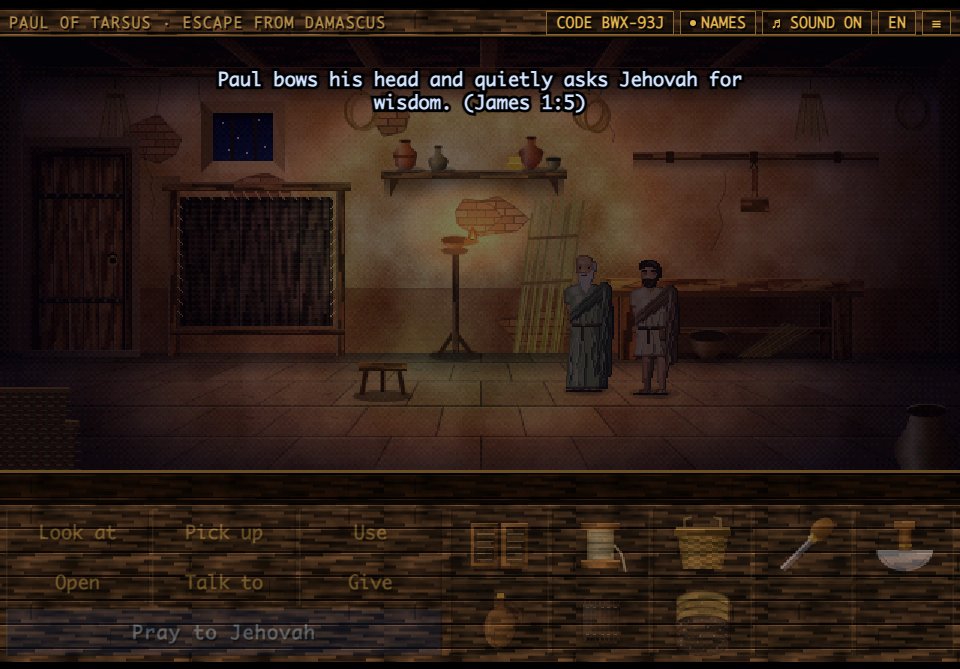
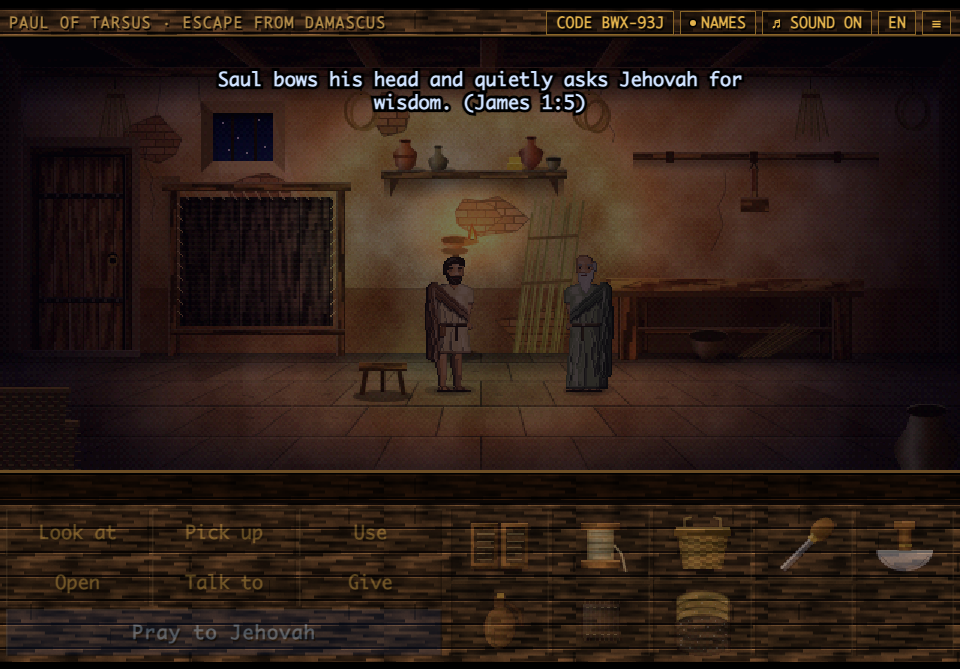
Saul prays as Saul until Acts 13:9 (fixes #63)
The prayer filled in Paul's name from P.name, which is always Paul, so in
the prologue and Chapters One to Four it said "Paul bows his head" while
the narration still calls him Saul. It now uses storyName(), which reads
P.called (a pair played as one, Aquila and Priscilla, keeps the name of
the pair). The swap button had the same fault in Chapters Three and Four
and uses it too.

- setChapter clears P.called, so no chapter inherits the name the chapter
  played before left there; Chapters One and Two set Saul in their setup.
- German: "Saul" -> "Saulus" for Chapters One and Two.
- Playtest: every prayer Paul says is checked against the narration's name
  (Saul before Acts 13:9, Paul from there on), in each language; inline
  checks in Chapter One and at Paphos; the swap button names Saul in
  Chapter Three. The Chapter One check fails on the old code.
- docs: how-to-play and development notes; pray.png retaken (Saul).

Changed region(s): [[0.4375, 0.3886, 0.5, 0.5979], [0.6562, 0.3886, 0.7188, 0.5979], [0.2188, 0.0897, 0.25, 0.1495]]

diff --git a/tools/playtest-harness.html b/tools/playtest-harness.html
@@ -45,6 +45,11 @@
    return bx.length>0&&!bad.size};
  const fitVerbs=()=>{for(const b of document.querySelectorAll("#verbs button"))if(getComputedStyle(b).display!=="none")fits(b,"verb",1)};
  const heard=[];new MutationObserver(m=>m.forEach(r=>r.addedNodes.forEach(n=>heard.push(n.textContent)))).observe($('#speech'),{childList:true});
+ /* Paul's name in the prayer (issue #63, CONTRIBUTING section 2): the narration calls him Saul until Acts 13:9 and Paul from there on, and the prayer
+    does too. Every line of prayer that Paul says in the playthrough is noted with the chapter and whether he has been heard by the proconsul yet
+    (Chapter Four, F.heard), and the end of the run checks them all, in each language. */
+ const prayLine=(h,nm)=>PRAYERS.some(l=>h===T(l,{name:T(nm)})),prayName=[],nameNow=()=>G.ch<4||G.ch===4&&!F.heard?'Saul':'Paul';
+ new MutationObserver(m=>m.forEach(r=>r.addedNodes.forEach(n=>{if(PC()===P)for(const nm of['Saul','Paul'])if(prayLine(n.textContent,nm))prayName.push([G.ch,nameNow(),nm])}))).observe($('#speech'),{childList:true});
  const choose=async i=>{const b=document.querySelectorAll('#choices button');b[i<0?b.length+i:i].click();await idle()};
  /* Pray to Jehovah is the hint system, and it never changes the game's state (CONTRIBUTING section 2). Every prayer of the playthrough is
     held to that: the flags, what everyone carries and the room are noted as a prayer begins, and compared at the check that follows it. */
@@ -2563,7 +2568,7 @@
   await sweep(ACT.eliab);
   heard.length=0;await act('pickup','shelf');ok(heard.includes(T('I have no use for dye tonight. Goat-hair cloth comes dark enough from the goat.'))&&G.room==='workshop','the dye shelf: goat hair comes dark enough from the goat');
   halt('pray',()=>{pray()});
-  pray();await idle();ok(G.prays===1&&!G.busy,'prayer returns control, hint='+hint()[0]);
+  heard.length=0;pray();await idle();ok(G.prays===1&&!G.busy&&heard.some(h=>prayLine(h,'Saul'))&&!heard.some(h=>prayLine(h,'Paul')),'prayer returns control, and Saul prays as Saul, as the narration calls him; hint='+hint()[0]);
   await act(null,'door to the street');ok(G.room==='street','in street');
   await act(null,'alley to the wall quarter');ok(G.room==='street'&&P.x<400,'guard turns Paul back');
   halt('guard',()=>{ACT.guard.dir=1;say(ACT.guard,'Halt! The wall quarter is closed tonight. Orders of the governor.')});
@@ -2695,7 +2700,7 @@
   ok($('#verbs').classList.contains('party')&&$('#swap').textContent.includes(T('Barnabas'))&&getComputedStyle($('#swap')).display!=='none','a party: the panel offers to switch to Barnabas');fitVerbs();
   heard.length=0;await useOn('awl','tent');ok(!F.seam&&!F.held&&heard.includes(T('Then show me where to stand, Saul. I am a Levite, not a tentmaker.')),'one man cannot sew the seam straight');
   pray();await idle();ok(hint()[0]==='hold3','the hint points to Barnabas');
-  key('c');await idle();ok(PC()===BN&&srt()==='staff'&&$('#swap').textContent.includes(T('Paul'))&&$('#status').textContent===T('Walk to'),'C switches to Barnabas, with his own inventory');
+  key('c');await idle();ok(PC()===BN&&srt()==='staff'&&$('#swap').textContent.includes(T('Saul'))&&!$('#swap').textContent.includes(T('Paul'))&&$('#status').textContent===T('Walk to'),'C switches to Barnabas, with his own inventory');
   heard.length=0;await act('look','workbench');ok(heard.includes(T('Scarred by years of cutting.')),'Barnabas looks at things in his own words');
   heard.length=0;await act('use','leather hide');ok(heard.includes(T("That is Saul's trade, not mine."))&&!F.gotLoops,'and leaves the crafts to Saul');
   pray();await idle();ok(hint()[0]==='hold3b'&&ACT.barnabas.bow===false,'Barnabas prays, and gets his own hint');
@@ -2887,14 +2892,14 @@
   halt('paphos',()=>{place(P,'paphos',286,122,1);place(BN,'paphos',258,126,1);G.cam=80;say(ACT.sergius,'It is a fair question. What is Cyprus to you two, that you walk the length of it?')});
   await sweep(ACT.sergius,ACT.elymas,ACT.mark);
   await actor(null,ACT.sergius);ok(!F.ob1&&!G.busy,'Paul is a stranger on Cyprus, and says so');
-  pray();await idle();ok(hint()[0]==='isle4','the hint points to Barnabas');
+  heard.length=0;pray();await idle();ok(hint()[0]==='isle4'&&heard.some(h=>prayLine(h,'Paul'))&&!heard.some(h=>prayLine(h,'Saul')),'the hint points to Barnabas, and from Acts 13:9 on Paul prays as Paul');
   await give('awl',ACT.sergius);ok(!F.ob2&&has('awl'),'the awl is no answer to the first question');
   key('c');await idle();await actor(null,ACT.sergius);ok(F.ob1&&!F.ob2&&!G.busy,'Barnabas answers: he was born on the island');
   const c4c=makeCode();
   await actor(null,ACT.sergius);ok(!F.ob2,'it is Paul whom Elymas has challenged');
   key('c');await idle();await actor(null,ACT.sergius);ok(!F.ob2&&!$('#choices').classList.contains('on'),'words alone do not answer the charge');
   pray();await idle();ok(hint()[0]==='fee4','the hint points to the awl');
-  await enter(c4c);ok(G.room==='paphos'&&PC()===BN&&F.ob1&&!F.ob2&&P.called==='Paul'&&T(P.hs.name)===T('Paul'),'the Paphos code restores, and his name with it');key('c');await idle();
+  await enter(c4c);ok(G.room==='paphos'&&PC()===BN&&F.ob1&&!F.ob2&&P.called==='Paul'&&T(P.hs.name)===T('Paul')&&$('#swap').textContent.includes(T('Paul')),'the Paphos code restores, and his name with it, on the swap button too');key('c');await idle();
   halt('tools',()=>{place(P,'paphos',308,114,1);place(BN,'paphos',280,124,1);G.cam=80;say(P,'This is my answer, sir. An awl. I am a tentmaker.')});
   halt('blind',()=>{F.ob1=F.ob2=1;ACT.elymas.bow=true;place(ACT.elymas,'paphos',352,128,-1);place(P,'paphos',300,120,1);place(BN,'paphos',272,126,1);G.cam=80;G.busy=true;lock(true);status();
     narr('At once a dense mist and darkness closed over his eyes, and he groped about for somebody who would take his hand and guide him. (Acts 13:11)',{dur:9000})});
@@ -3365,6 +3370,8 @@
   {const real=Object.values(CHAP).filter(c=>c.src);/* the chapters that are level files: not the hub test's own */
     ok(real.length>=9&&real.every(c=>c.ready)&&!taken.length,'ids: all '+real.length+' chapters are loaded, and none took a room, a backdrop or an item from another'+(taken.length?'. TAKEN: '+taken.join(' | '):''))}
   ok(prayers>0&&!prayBad.length,prayers+' prayers, and not one of them changed anything in the game'+(prayBad.length?'. CHANGED before: '+prayBad.slice(0,6).join(' | '):''));
+  {const wrong=prayName.filter(([,w,nm])=>w!==nm);
+   ok(prayName.length>0&&!wrong.length,prayName.length+' prayers of Paul name him as the narration does: Saul before Acts 13:9, Paul from there on'+(wrong.length?'. WRONG: '+wrong.slice(0,6).map(([c,w,nm])=>'chapter '+c+' says '+nm+', wanted '+w).join(' | '):''))}
   /* the narrator's scroll: every line of narration told in the dark was read from it, and it is down again at the end */
   ok(inked>=80&&SHARED.scroll&&SHARED.scroll.state==='down'&&!SHARED.scroll.over.length,inked+' lines of narration were told in the dark, and each was read from the scroll');
   talked();fitVerbs();ok(!tight.size,'no text overflows its box: speech, choices, status line, verbs, top bar'+(tight.size?'. TOO LONG: '+[...tight].slice(0,10).join(' | '):''));

diff --git a/index.html b/index.html
@@ -1132,8 +1132,13 @@ function actor(id,name,color,pitch){return ACT[id]||(ACT[id]={id,name,look:LOOK[
 const P=actor('paul','Paul','#f5e6b8',150);  /* a person's name is shown with T(a.name) */
 /* P is always Paul: the level scripts speak and move him by name. PC() is whoever the player controls. A chapter can declare a party
    of playable characters (party:['paul','barnabas']); each member then has his own inventory (G.invs, of which G.inv is the active
-   one's), stands in his own room, and can be handed things by the others. */
+   one's), stands in his own room, and can be handed things by the others. P.called is the name the story gives him: Saul until
+   Acts 13:9, Paul from there on (CONTRIBUTING section 2). A chapter sets it in its setup, setChapter clears it, and the prayer, the swap
+   button and the hand-over use called before name (a pair played as one keeps its own name: storyName). */
 const PC=()=>G.pc||P;
+/* storyName: the name the story gives a person, which is what the prayer and the swap button show. A pair played as one keeps the name of the pair
+   (Aquila and Priscilla: their called is for the hand-over only). */
+const storyName=a=>a.mate?a.name:a.called||a.name;
 const party=()=>(CHAP[G.ch]&&CHAP[G.ch].party||['paul']).map(id=>ACT[id]);
 const invOf=a=>a===PC()?G.inv:(G.invs[a.id]||(G.invs[a.id]=[]));
 const pick=a=>a[Math.floor(Math.random()*a.length)];
@@ -1269,7 +1274,7 @@ function buildVerbs(){const v=$('#verbs');v.innerHTML='';
   const w=document.createElement('button');w.type='button';w.id='swap';w.onclick=()=>swap();v.appendChild(w);syncVerbs()}
 /* swapBtn: in a chapter with a party, the prayer bar gives up a third of its width to a button naming the character to switch to. */
 function swapBtn(){const b=$('#swap'),ps=party(),on=ps.length>1;$('#verbs').classList.toggle('party',on);if(!on)return;
-  const n=ps[(ps.indexOf(PC())+1)%ps.length];b.textContent='\u21c4 '+T(n.name);b.title=T('Play as {name} (C)',{name:T(n.name)});b.disabled=!n.room}
+  const n=ps[(ps.indexOf(PC())+1)%ps.length];b.textContent='\u21c4 '+T(storyName(n));b.title=T('Play as {name} (C)',{name:T(storyName(n))});b.disabled=!n.room}
 /* swap: hand control to the next member of the party. If he stands in another room, the view goes there. */
 function swap(to){if(G.busy||G.scene||!G.room)return;const ps=party();if(ps.length<2)return;
   const a=to||ps[(ps.indexOf(PC())+1)%ps.length];if(!a||!a.room||a===PC())return;audioInit();
@@ -1556,7 +1561,7 @@ function pray(){if(G.busy||G.scene||!G.room)return;audioInit();
   cut(async()=>{G.prays++;const me=PC(),d=$('#dim'),m=AU.mus,ab=AU.ambG;d.style.opacity=.55;me.bow=true;SFX.pray();
     if(m){m.gain.setTargetAtTime(.12*OPTS.mus,now(),.3);ab.gain.setTargetAtTime(.15*OPTS.fx,now(),.3)}
     await wait(900);
-    {const PR=me.mate?PRAYERS2:PRAYERS;await say(null,T(G.prays===1?PR[0]:pick(PR),{name:T(me.name)}),{dur:4200,color:'#cfe2ff'})}
+    {const PR=me.mate?PRAYERS2:PRAYERS;await say(null,T(G.prays===1?PR[0]:pick(PR),{name:T(storyName(me))}),{dur:4200,color:'#cfe2ff'})}
     await wait(500);me.bow=false;d.style.opacity=0;if(m){m.gain.setTargetAtTime(.55*OPTS.mus,now(),.8);ab.gain.setTargetAtTime(.5*OPTS.fx,now(),.8)}
     await wait(600);
     const[k,ls]=hint(),n=G.hintAt[k]=(G.hintAt[k]||0)+1;
@@ -1799,7 +1804,7 @@ function decode(t){t=(t||'').toUpperCase().replace(/O/g,'0').replace(/[IL]/g,'1'
     const c=Number(x&511n),v=x>>9n^wideMask(c,t.length*5-9);return wideChk(v,CHAP[ch].salt,t.length)===c?{ch,w:v}:null}
   if(t.length!==6)return null;let v=0;for(const x of t){const i=A32.indexOf(x);if(i<0)return null;v=v*32+i}
   const c=v%512,b=Math.floor(v/512)^msk(c);return chk(b,CHAP[ch].salt)!==c||(b>>19&3)>2||b>>21?null:{ch,b}}
-function setChapter(ch){G.ch=ch;for(const k in F)delete F[k];G.pc=P;G.invs={};P.hs=null;
+function setChapter(ch){G.ch=ch;for(const k in F)delete F[k];G.pc=P;G.invs={};P.hs=null;P.called=null;
   LOOK.paul=paulLook(ch);if(LOOK.barnabas)LOOK.barnabas=Object.assign({skin:'#b8844f',tunic:'#b0563a',cloak:'#d8c8a0',belt:'#5a3a20',trim:'#7a3a26',long:1,ph:500},ch>2?{hair:'#58483a',beard:'#58483a',grey:'#8a8076',fullBeard:1}:{hair:'#3a2a1a',beard:'#3a2a1a'});
   SPR.clear();Object.values(ACT).forEach(a=>{if(a!==P)a.room=null;a.bow=a.talk=false;a.walk=null;a.party=0;a.seat=0;a.wear='';a.look=LOOK[a.id]});
   (CHAP[ch].party||[]).forEach(id=>ACT[id].party=1);

diff --git a/levels/chapter1.js b/levels/chapter1.js
@@ -622,7 +622,7 @@ N.hs={name:'Naomi',actor:N,look:'Naomi, our sister. A widow who has opened her h
     {q:'Where are the brothers?',a:()=>say(N,'Eliab and young Jesse are coming by the rooftops. They will be here when the basket is ready.')},
     {q:'Thank you for opening your home.',once:1,a:async()=>{await say(N,'You once came to this city to take us away in bonds. Now you are my brother.');await say(N,'Jehovah does such things.')}},
     {q:'I will make ready.',bye:1}])};
-function setup(){place(E,'workshop',196,118,-1);place(GD,'street',270,118,1);place(Z,'street',328,116,-1);place(N,'house',172,120,-1);
+function setup(){P.called='Saul';place(E,'workshop',196,118,-1);place(GD,'street',270,118,1);place(Z,'street',328,116,-1);place(N,'house',172,120,-1);
   G.inv=['pouch','tablets'];drawInv()}
 /* ============ SCENES: intro, finale, chapter complete ============ */
 const twinkle=(g,t)=>{for(let i=0;i<6;i++)if((Math.floor(t/500)+i)%4===0)R(g,160+i*27,12+(i*17)%40,1,1,'#0a0f2e')};

diff --git a/levels/chapter2.js b/levels/chapter2.js
@@ -257,7 +257,7 @@ Object.assign(COMBO,{
   'sailpatch+thread':()=>say(P,'My thread is for tent seams. A sail under wind would snap it.'),
   'knife+sailpatch':()=>say(P,'It is large enough to cover the tear. I will leave it whole.'),
   'knife+provisions':()=>say(P,'I will break the bread when it is time to eat it.')});
-function setup2(){place(BN,'jerusalem',228,118,-1);place(CE,'upper',168,120,-1);place(JA,'upper',212,123,-1);
+function setup2(){P.called='Saul';place(BN,'jerusalem',228,118,-1);place(CE,'upper',168,120,-1);place(JA,'upper',212,123,-1);
   place(CP,'harbor',262,122,-1);place(FI,'harbor',186,116,-1);place(MT,'harbor',214,130,1);G.inv=['awl','thread','knife','tablets'];drawInv()}
 /* in Jerusalem, while Saul speaks in the synagogues, the two who dispute with him wait in the street */
 const disputers=()=>{place(DS,'jerusalem',252,118,1);place(AR,'jerusalem',226,123,1)};

diff --git a/levels/chapter4.js b/levels/chapter4.js
@@ -658,7 +658,7 @@ async function hearing0(){if(F.heard)return;
   await say(BN,'Barnabas, sir.',{to:SP});
   await say(P,'Saul, of Tarsus. But I was born a Roman, and among the nations I go by my Roman name: Paul.');
   await say(SP,'Paulus? That is my own name. Sergius Paulus.');
-  await say(P,'I have had it as long as I can remember, sir.');F.heard=1;P.called='Paul';
+  await say(P,'I have had it as long as I can remember, sir.');F.heard=1;P.called='Paul';swapBtn();
   await narr('From this point on, the account calls him Paul. (Acts 13:9)',{dur:4200});
   await say(EL,'Proconsul, look at them. Two vagrants from Syria, with the dust of the road to their knees.',{to:SP});
   await say(EL,'Such men sail in, stir up a city, and are gone before the reckoning.');

diff --git a/lang/de/chapter2.js b/lang/de/chapter2.js
@@ -4,6 +4,7 @@
    copied: they are checked against the Neue-Welt-Übersetzung der Heiligen Schrift (Studienausgabe), and names and places follow its
    spelling, without the marks that show stress (CONTRIBUTING sections 1 and 8). */
 TEXTS('de',2,{
+  "Saul":"Saulus",
   "Barnabas":"Barnabas",
   "Cephas":"Kephas",
   "James":"Jakobus",

diff --git a/lang/de/chapter1.js b/lang/de/chapter1.js
@@ -4,6 +4,7 @@
    copied: they are checked against the Neue-Welt-Übersetzung der Heiligen Schrift (Studienausgabe), and names and places follow its
    spelling, without the marks that show stress (CONTRIBUTING sections 1 and 8). */
 TEXTS('de',1,{
+  "Saul":"Saulus",
   "Eliab":"Eliab",
   "Naomi":"Noomi",
   "Jesse":"Isai",

diff --git a/docs/development.md b/docs/development.md
@@ -39,7 +39,7 @@ Inside a level file:
 - **Rooms and dialog** are tables of hotspots with their lines, and short async scripts for the puzzles and cutscenes. A hotspot's default verb (what a plain click does) is worked out by the engine: a door is opened, another exit is walked to, a person is talked to, something picked up with `take(...)` is picked up, and anything else is looked at. A hotspot can name its own with `def:'use'`, or with a getter when it changes with the story.
 - **People** are hotspots with an `actor`. Besides `look` and `talk`, a person has a `give` script for the items that really matter to him (it returns `false` for the rest), a `show` table with his reply to every other item, keyed by item id, and a fallback `show['*']`, all in his own voice. Replies can be a line, a list of lines or a script. Using an item on a person is the same as giving it.
 - **Wax tablets** are data too: `TABLETS` holds the chapter's `people` (name and note), `tasks` and `scripture` (a reference `ref` and a `gist`: the passage as Paul has noted it in his own words, never wording copied from a translation), each with an optional condition `if` on the story, and the chapter definition passes it on as `tablets`. A chapter may add `notes:{title, none, list:[{t, if}]}`, a third list with a heading of its own under the Scriptures, for what Paul writes down as he goes ("Seen in Athens", in Chapter Eleven). The overlay that shows them is `shared/tablets.js`, which the engine loads with `need('tablets')` the first time the tablets are opened. Anything else shared between chapters goes under `shared/` the same way.
-- **A party** of playable characters is declared in the chapter definition: `party:['paul','barnabas']`. `P` is always Paul and the scripts use him by name; `PC()` is whoever is being played, and `playAs(P)` hands control back before a cutscene. Each member has his own inventory: `home` says who usually carries an item (`{staff:'barnabas'}`), and `share` lists the items that can change hands. Another member does only what the level writes for him, in `as:{barnabas:{look, use, useWith, give, talk, show}}` on a hotspot or a person; otherwise he answers from his own `def` table, leaves the crafts to Paul (`noCraft`), and describes items in his own words (`ITEMS[id].by.barnabas`). A member who joins later stands in no room until then: the swap button names him and stays disabled, and the chapter's `away(id)` says from the story when he is still away, so that a code does not place him (Luke, in Chapter Eight). Paul himself may be away: in Chapter Ten `away('paul')` is true while he is on his way to the sea, Timothy is played (`playAs`), Paul stands in no room, and a code restores it so. A man who is to stand in the scenes before he can be played has two actors, one for each (`timothy10` and `tim10`).
+- **A party** of playable characters is declared in the chapter definition: `party:['paul','barnabas']`. `P` is always Paul and the scripts use him by name; `P.called` is the name the story gives him, Saul until Acts 13:9 and Paul from there on (CONTRIBUTING section 2): a chapter sets it in its setup, `setChapter` clears it, and the prayer, the swap button and the hand-over use `called` before `name` (`storyName`, which keeps the name of a pair played as one), so a new chapter before Acts 13:9 sets `P.called='Saul'` and a line that names Paul reads it too. `PC()` is whoever is being played, and `playAs(P)` hands control back before a cutscene. Each member has his own inventory: `home` says who usually carries an item (`{staff:'barnabas'}`), and `share` lists the items that can change hands. Another member does only what the level writes for him, in `as:{barnabas:{look, use, useWith, give, talk, show}}` on a hotspot or a person; otherwise he answers from his own `def` table, leaves the crafts to Paul (`noCraft`), and describes items in his own words (`ITEMS[id].by.barnabas`). A member who joins later stands in no room until then: the swap button names him and stays disabled, and the chapter's `away(id)` says from the story when he is still away, so that a code does not place him (Luke, in Chapter Eight). Paul himself may be away: in Chapter Ten `away('paul')` is true while he is on his way to the sea, Timothy is played (`playAs`), Paul stands in no room, and a code restores it so. A man who is to stand in the scenes before he can be played has two actors, one for each (`timothy10` and `tim10`).
 - **Ids are shared.** Rooms, artwork, items, icons, looks and actors are kept in tables that every chapter writes into (`ROOMS`, `ART`, `ITEMS`, `ICON`, `LOOK`, `ACT`), so an id must be new in the whole game, not only in its file. A place or a person that comes back gets a second id: Chapter Seven's Lystra is `lystra7`, and its Timothy is `timothy7`, a man's height now. So do two places that only share a word: the house of Lois in Chapter Six is `house6`, because Chapter One has a `house` of its own. Otherwise the later chapter would redraw the earlier one's room, and a code for the earlier chapter would open the wrong scene. A chapter that brings the same person or thing back may repeat its look or its icon unchanged, as each does with Barnabas and his staff. The playtest watches every chapter register itself, and fails if one takes a room, a backdrop or an item from another.
 - **A room that is heard, not seen** says `heard:true`, or a function of the story (the inner prison of Chapter Nine, until the earthquake). The names of its hotspots are then shown all the time, as the NAMES button shows them, and a click on a name acts on what it names: in the dark they are all there is to see. Such a room can be painted black; its hotspots are whatever can be heard, and its sounds are ambience voices that the story switches off one by one.
 - **A close view** is a room in which nobody walks: the bolt of cloth and the scroll table of Chapter Ten, the row of altars of Chapter Eleven, the awning and the picture of the neck of land in Chapter Twelve, and the house and the counting board of Chapter Thirteen. Its strip to walk on is a single point below the picture (`walk:[160,160,236,236]`), so whoever is played stands out of sight and a click on a hotspot acts at once. Its hotspots are the parts of the thing, and what moves is drawn in `draw`, from a state kept on `G` (`G.bolt10`, `G.tab10`): that state is not in the safe-point code, only what has been solved is. The engine does not hand a click's place to a hotspot, so the bolt notes where the pointer is with a listener of its own on the view (`evPos`). A name that is painted on the canvas (what lies open under each scroll) is translated with `T` as it is drawn, and made to fit its width; the playtest checks that it does, in every language.

diff --git a/docs/how-to-play.md b/docs/how-to-play.md
@@ -70,7 +70,7 @@ The game plays in English and in German (Deutsch). It starts in your browser's l
 
 ## Pray to Jehovah
 
-The blue button is the hint system. Paul pauses, bows his head and prays for wisdom (James 1:5) and leaves his cares with Jehovah (1 Peter 5:7). Prayer never solves a puzzle or changes the game. It clears his mind, and he then has a thought that points toward the next practical step. Praying again at the same point gives a more direct thought.
+The blue button is the hint system. Paul (Saul, as the account calls him until Acts 13:9) pauses, bows his head and prays for wisdom (James 1:5) and leaves his cares with Jehovah (1 Peter 5:7). Prayer never solves a puzzle or changes the game. It clears his mind, and he then has a thought that points toward the next practical step. Praying again at the same point gives a more direct thought.
 
 ![Praying for wisdom](screenshots/pray.png)
 
